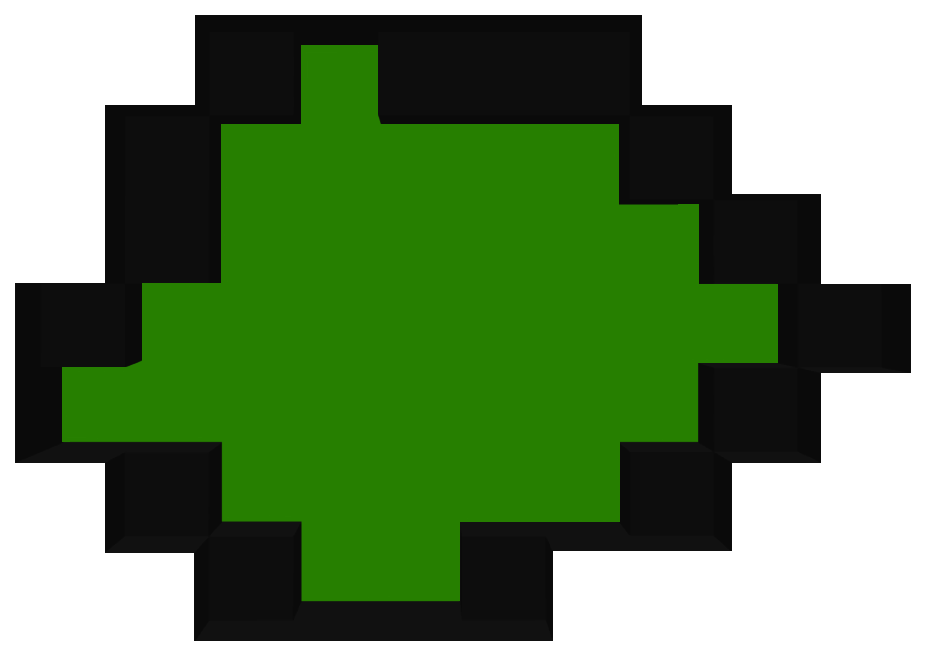
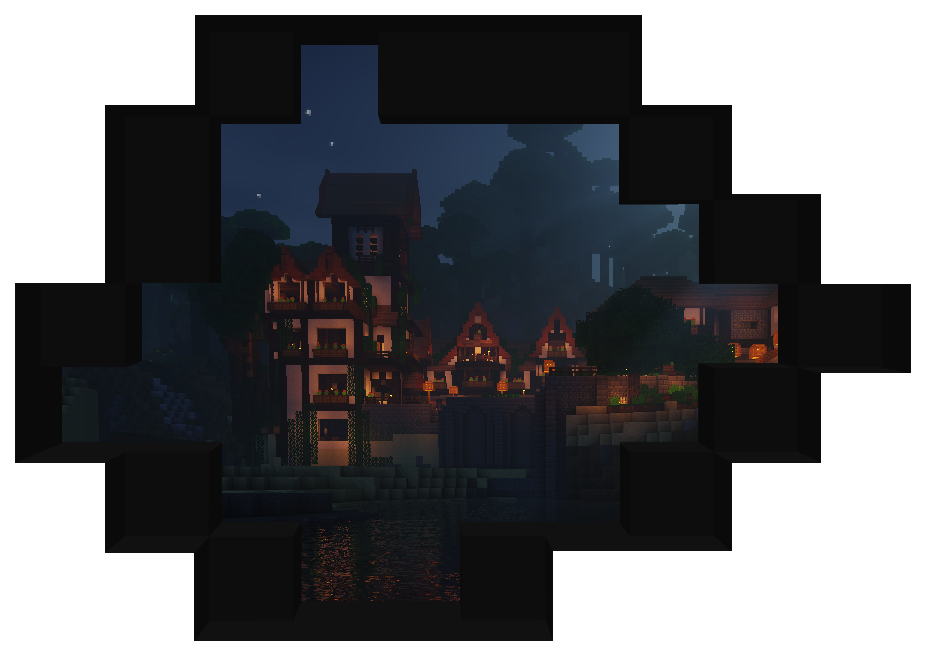
Changed pictures.

diff --git a/index.html b/index.html
@@ -21,9 +21,9 @@
         </div>
 
         <div class="info">
-            <img src="assets/btw_img.png" class="bma_img">
-            <h1 class="bma_heading">Leafure - натуральный проект.</h1>
-            <h6 class="bma_text">Lorem ipsum delta tore. Lorem ipsum delta tore. Lorem ipsum delta tore. Lorem ipsum delta tore. Lorem ipsum delta tore. Lorem ipsum delta tore. Lorem ipsum delta tore. Lorem ipsum delta tore. Lorem ipsum delta tore. Lorem ipsum delta tore. Lorem ipsum delta tore.</h6>
+            <img src="assets/bma_img.png" class="bma_img">
+            <h1 class="bma_heading">Leafure</h1>
+            <h6 class="bma_text">Сервер Minecraft версии Vanilla 1.2.5, созданный для творческих личностей, не боящихся выйти за рамки старой версии.</h6>
             <img src="assets/bon_img.png" class="bon_img">
             <h1 class="bon_heading">Творческое пространство.</h1>
             <h2 class="bon_text">Lorem ipsum delta tore. Lorem ipsum delta tore. Lorem ipsum delta tore. Lorem ipsum delta tore. Lorem ipsum delta tore. Lorem ipsum delta tore. Lorem ipsum delta tore. Lorem ipsum delta tore. Lorem ipsum delta tore. Lorem ipsum delta tore. Lorem ipsum delta tore.</h2>
@@ -35,6 +35,8 @@
             <h2 class="bth_text">Lorem ipsum delta tore. Lorem ipsum delta tore. Lorem ipsum delta tore. Lorem ipsum delta tore. Lorem ipsum delta tore. Lorem ipsum delta tore. Lorem ipsum delta tore. Lorem ipsum delta tore. Lorem ipsum delta tore. Lorem ipsum delta tore. Lorem ipsum delta tore.</h2>
         </div>
 
+        <div class="footer_inner"></div>
+
         <div class="footer">
             <p>
                 <img src="assets/Leaves.png" class="brand_logo">
@@ -45,9 +47,9 @@
                 <h1 class="number">+7 (xxx) xxx-xx-xx</h1>
                 <h1 class="mail">leafureproject@gmail.com</h1>
                 <h1 class="adress">Санкт-Петербург, Высотная, 1</h1>
-                <a href="https://vk.com/leafure"><img src="assets/btw_img.png" class="sc_vk"></a>
-                <a href="#"><img src="assets/btw_img.png" class="sc_tg"></a>
-                <a href="https://discord.gg/2ewDmTp3wr"><img src="assets/btw_img.png" class="sc_dc"></a>
+                <a href="https://vk.com/leafure"><img src="assets/img_vk.png" class="sc_vk"></a>
+                <a href="#"><img src="assets/img_tg.png" class="sc_tg"></a>
+                <a href="https://discord.gg/2ewDmTp3wr"><img src="assets/img_dc.png" class="sc_dc"></a>
             </p>
             <p class="copyright">
                 Проект является некоммерческим и развлекательным.<br>

diff --git a/css/style.css b/css/style.css
@@ -109,18 +109,18 @@ body {
 
 .bma_img {
     position: absolute;
-    width: 750px;
+    width: 1100px;
     height: 500px;
-    left: 520px;
-    top: 60px;
+    left: 175px;
+    top: 138px;
 }
 
 .bma_heading {
     position: absolute;
-    width: 544px;
+    width: 165px;
     height: 32px;
-    left: 169px;
-    top: 126px;
+    left: 637px;
+    top: 229px;
     
     font-size: 32px;
     line-height: 32px;
@@ -130,13 +130,14 @@ body {
 
 .bma_text {
     position: absolute;
-    width: 544px;
-    height: 252px;
-    left: 169px;
-    top: 169px;
+    width: 430px;
+    height: 120px;
+    left: 505px;
+    top: 276px;
     
-    font-size: 28px;
-    line-height: 28px;
+    font-size: 24px;
+    line-height: 24px;
+    text-align: center;
     
     color: #FFFFFF;
 }
@@ -171,8 +172,8 @@ body {
     left: 770px;
     top: 822px;
     
-    font-size: 24px;
-    line-height: 24px;
+    font-size: 20px;
+    line-height: 20px;
     
     color: #FFFFFF;
 }
@@ -207,8 +208,8 @@ body {
     left: 170px;
     top: 1372px;
 
-    font-size: 24px;
-    line-height: 24px;
+    font-size: 20px;
+    line-height: 20px;
     
     color: #FFFFFF;
 }
@@ -243,8 +244,8 @@ body {
     left: 770px;
     top: 1922px;
     
-    font-size: 24px;
-    line-height: 24px;
+    font-size: 20px;
+    line-height: 20px;
     
     color: #FFFFFF;
 }
@@ -253,10 +254,16 @@ body {
     position: relative;
     width: 1440px;
     height: 275px;
-    left: 0px;
-    top: 300px;
+    top: 25px;
     
     margin: auto;
+}
+
+.footer_inner {
+    position: relative;
+    height: 275px;
+    top: 300px;
+
     background: #111111;
     box-shadow: inset 0px 4px 4px rgba(0, 0, 0, 0.25);
 }
